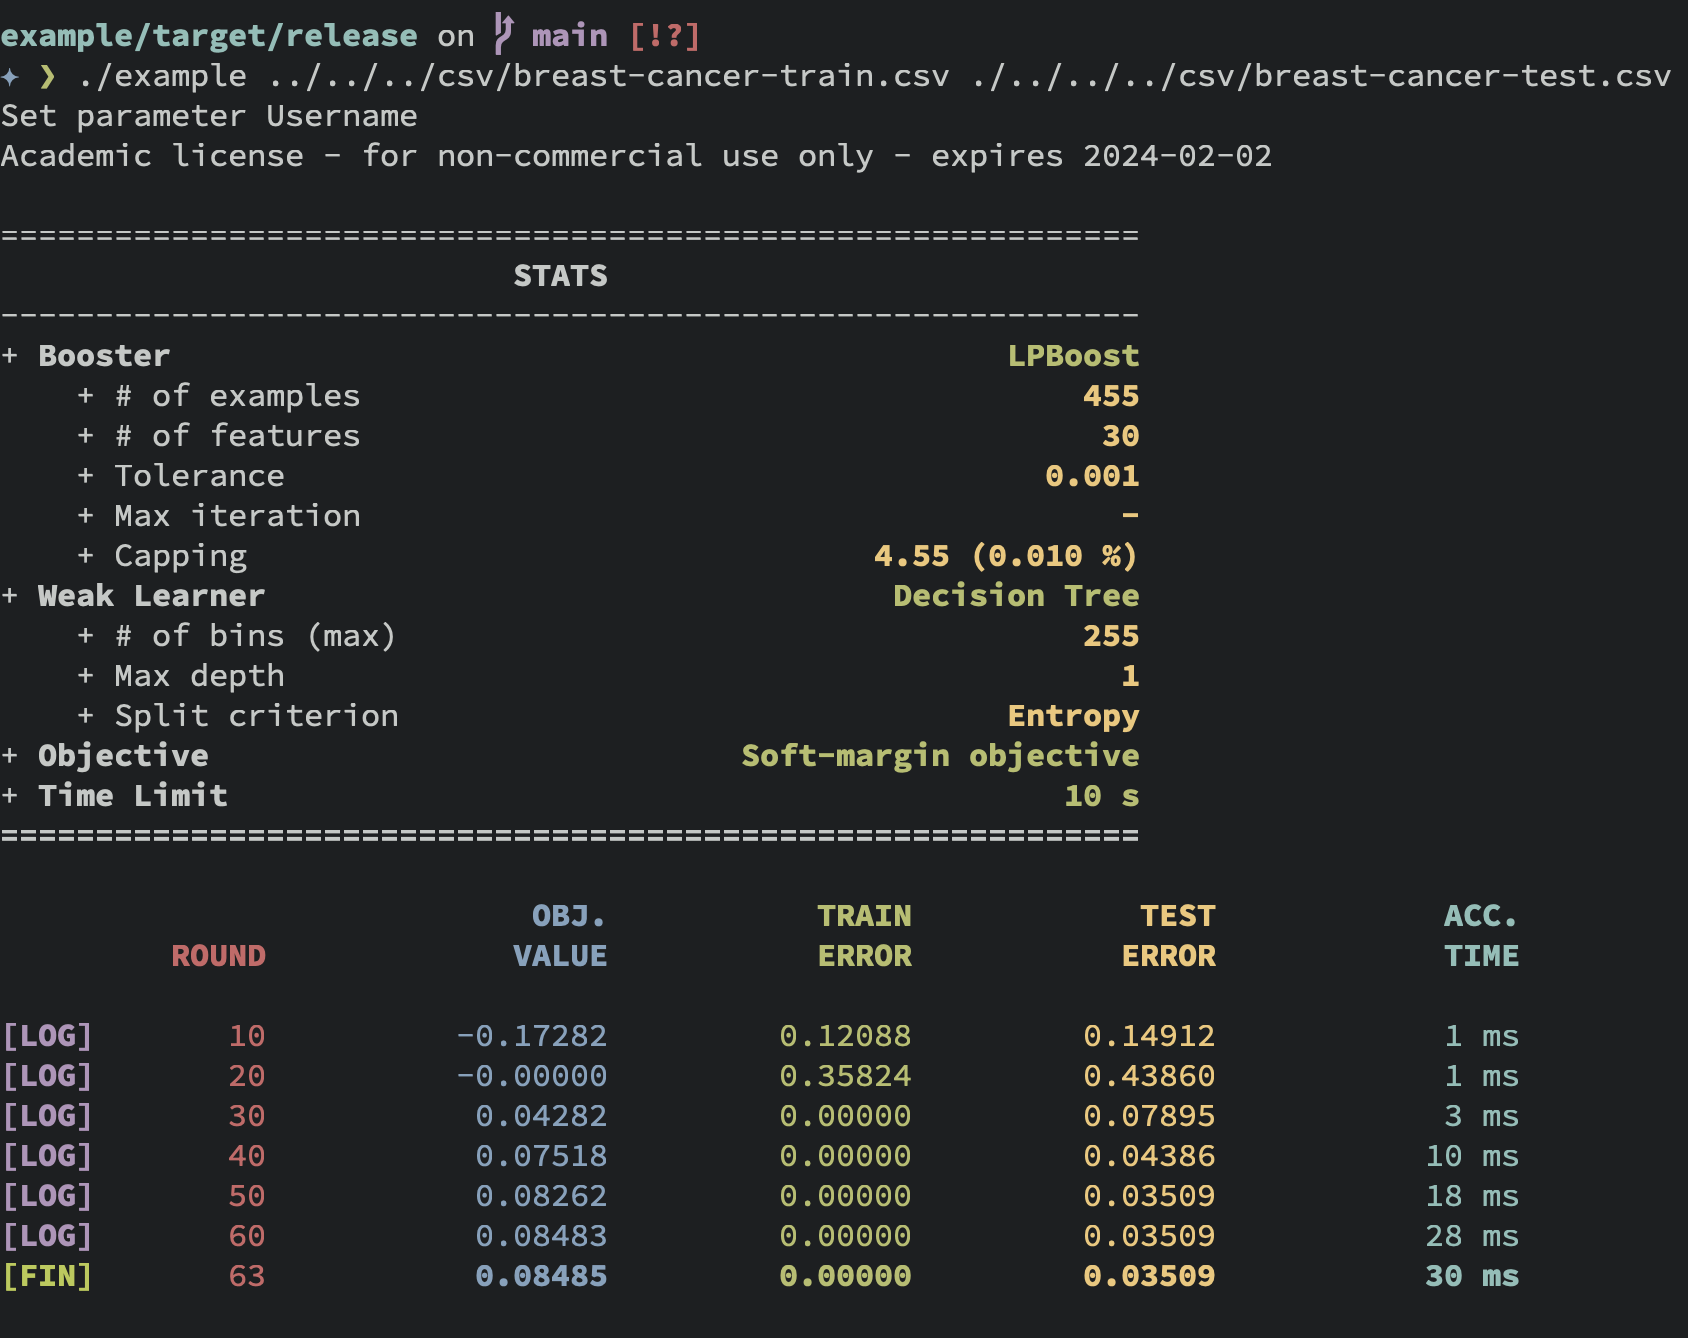
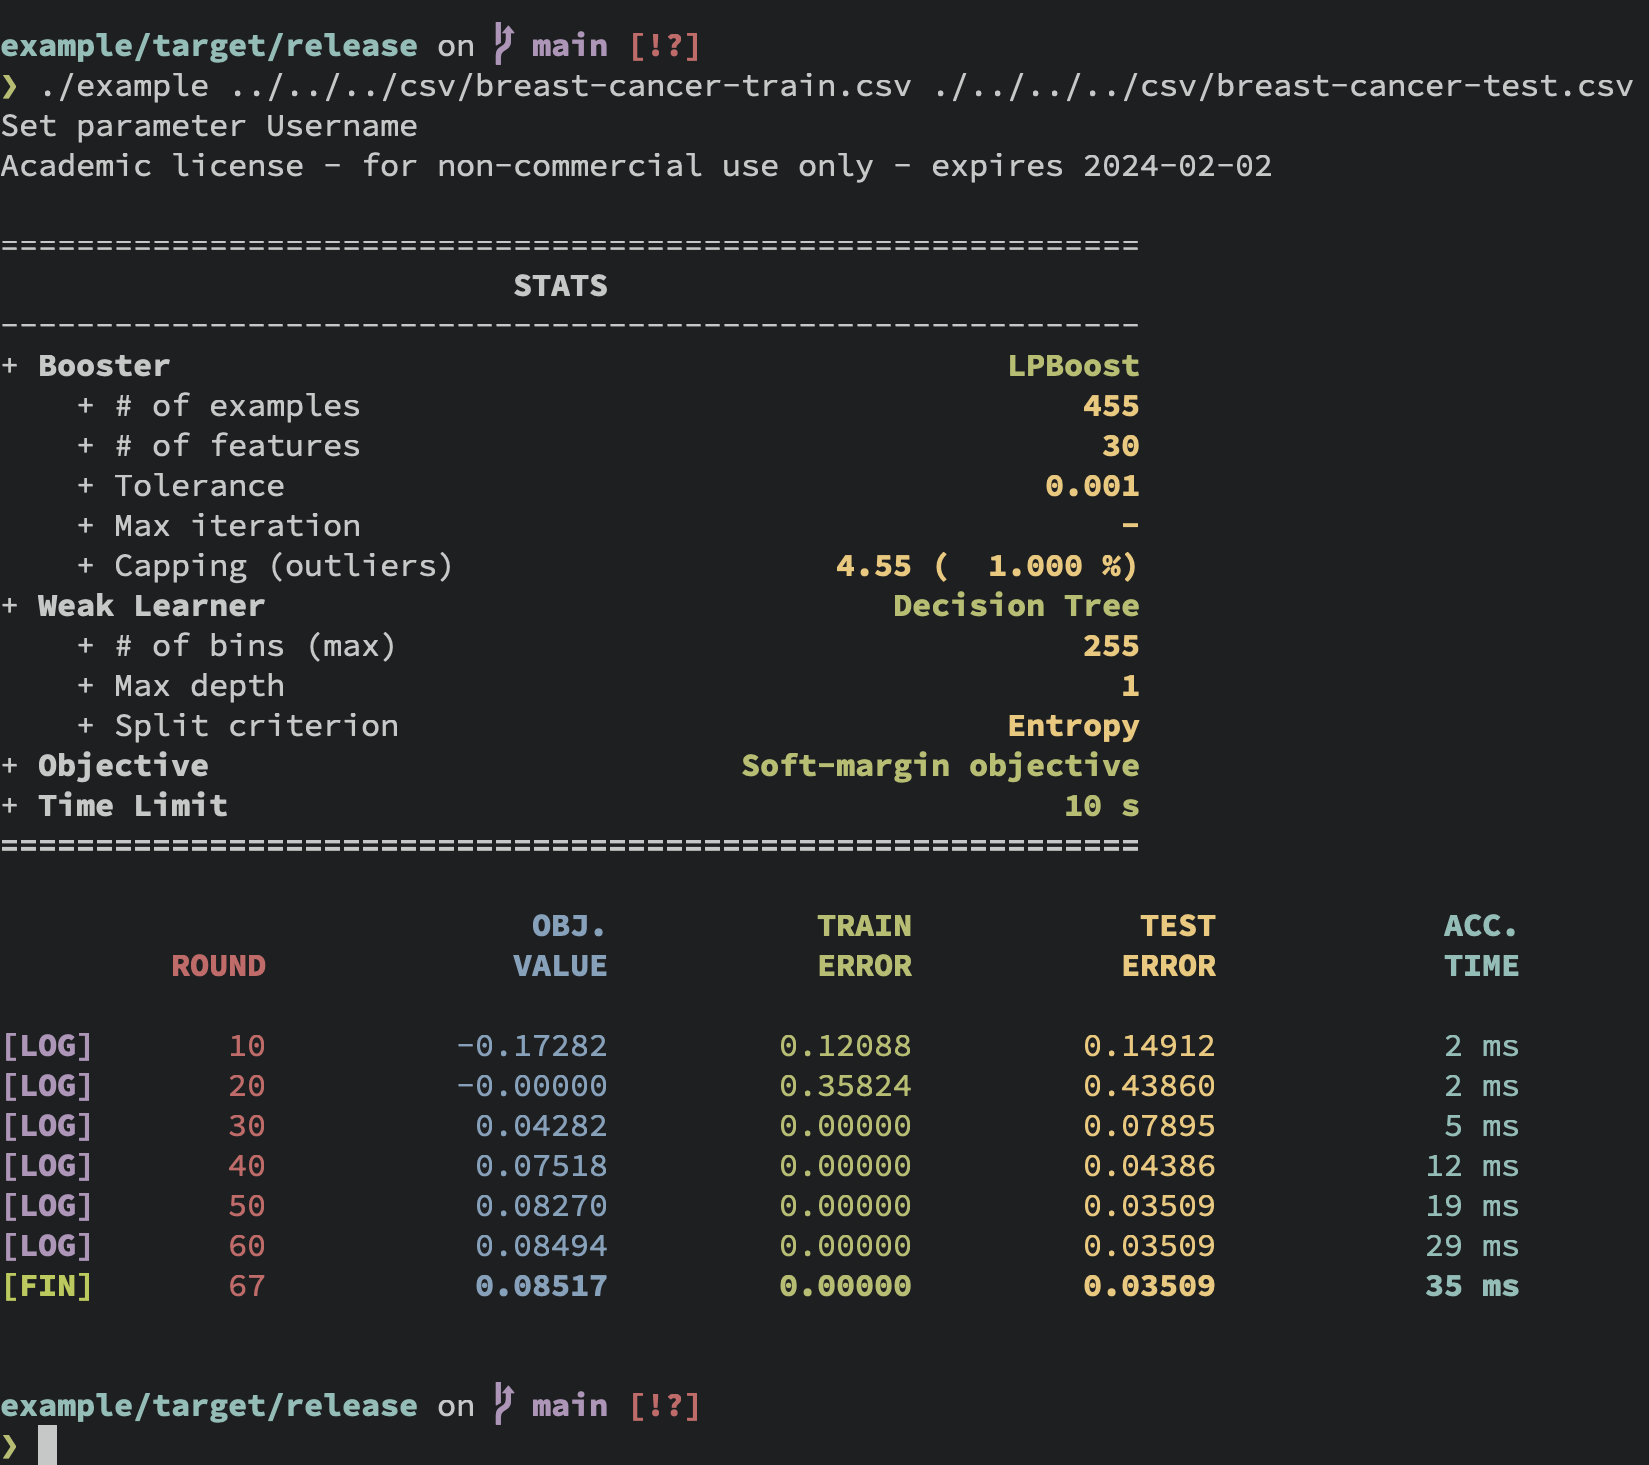
Minor fixes.
The capping parameter information was wrong.
This update fixed it.

Changed region(s): [[0.0, 0.1532, 0.7423, 1.0], [0.0, 0.0, 0.9897, 0.1226], [0.8351, 0.6129, 0.9278, 0.9806]]

diff --git a/src/booster/mlpboost/mlpboost_algorithm.rs b/src/booster/mlpboost/mlpboost_algorithm.rs
@@ -343,13 +343,14 @@ impl<F> Booster<F> for MLPBoost<'_, F>
 
     fn info(&self) -> Option<Vec<(&str, String)>> {
         let (n_sample, n_feature) = self.sample.shape();
-        let ratio = self.nu / n_sample as f64;
+        let ratio = self.nu * 100f64 / n_sample as f64;
+        let nu = self.nu;
         let info = Vec::from([
             ("# of examples", format!("{n_sample}")),
             ("# of features", format!("{n_feature}")),
             ("Tolerance", format!("{}", 2f64 * self.half_tolerance)),
             ("Max iteration", format!("{}", self.max_iter)),
-            ("Capping", format!("{nu} ({ratio:.3} %)", nu = self.nu)),
+            ("Capping (outliers)", format!("{nu} ({ratio: >7.3} %)")),
             ("Primary", format!("{}", self.primary.current_type())),
             ("Secondary", format!("LPBoost"))
         ]);

diff --git a/src/booster/softboost/softboost_algorithm.rs b/src/booster/softboost/softboost_algorithm.rs
@@ -433,14 +433,15 @@ impl<F> Booster<F> for SoftBoost<'_, F>
 
     fn info(&self) -> Option<Vec<(&str, String)>> {
         let (n_sample, n_feature) = self.sample.shape();
-        let ratio = self.nu / n_sample as f64;
+        let ratio = self.nu * 100f64 / n_sample as f64;
+        let nu = self.nu;
         let info = Vec::from([
             ("# of examples", format!("{n_sample}")),
             ("# of features", format!("{n_feature}")),
             ("Tolerance", format!("{}", self.tolerance)),
             ("Tolerance (sub-problem)", format!("{}", self.sub_tolerance)),
             ("Max iteration", format!("{}", self.max_iter)),
-            ("Capping", format!("{nu} ({ratio:.3} %)", nu = self.nu)),
+            ("Capping (outliers)", format!("{nu} ({ratio: >7.3} %)"))
         ]);
         Some(info)
     }

diff --git a/src/booster/erlpboost/erlpboost_algorithm.rs b/src/booster/erlpboost/erlpboost_algorithm.rs
@@ -332,13 +332,14 @@ impl<F> Booster<F> for ERLPBoost<'_, F>
 
     fn info(&self) -> Option<Vec<(&str, String)>> {
         let (n_sample, n_feature) = self.sample.shape();
-        let ratio = self.nu / n_sample as f64;
+        let ratio = self.nu * 100f64 / n_sample as f64;
+        let nu = self.nu;
         let info = Vec::from([
             ("# of examples", format!("{n_sample}")),
             ("# of features", format!("{n_feature}")),
             ("Tolerance", format!("{}", 2f64 * self.half_tolerance)),
             ("Max iteration", format!("{}", self.max_iter)),
-            ("Capping", format!("{nu} ({ratio:.3} %)", nu = self.nu))
+            ("Capping (outliers)", format!("{nu} ({ratio: >7.3} %)"))
         ]);
         Some(info)
     }

diff --git a/src/booster/lpboost/lpboost_algorithm.rs b/src/booster/lpboost/lpboost_algorithm.rs
@@ -239,13 +239,14 @@ impl<F> Booster<F> for LPBoost<'_, F>
 
     fn info(&self) -> Option<Vec<(&str, String)>> {
         let (n_sample, n_feature) = self.sample.shape();
-        let ratio = self.nu / n_sample as f64;
+        let ratio = self.nu * 100f64 / n_sample as f64;
+        let nu = self.nu;
         let info = Vec::from([
             ("# of examples", format!("{n_sample}")),
             ("# of features", format!("{n_feature}")),
             ("Tolerance", format!("{}", self.tolerance)),
             ("Max iteration", format!("-")),
-            ("Capping", format!("{nu} ({ratio:.3} %)", nu = self.nu))
+            ("Capping (outliers)", format!("{nu} ({ratio: >7.3} %)"))
         ]);
         Some(info)
     }

diff --git a/src/booster/cerlpboost/cerlpboost_algorithm.rs b/src/booster/cerlpboost/cerlpboost_algorithm.rs
@@ -244,12 +244,13 @@ impl<F> Booster<F> for CERLPBoost<'_, F>
     fn info(&self) -> Option<Vec<(&str, String)>> {
         let (n_sample, n_feature) = self.sample.shape();
         let ratio = self.nu / n_sample as f64;
+        let nu = self.nu;
         let info = Vec::from([
             ("# of examples", format!("{n_sample}")),
             ("# of features", format!("{n_feature}")),
             ("Tolerance", format!("{}", 2f64 * self.half_tolerance)),
             ("Max iteration", format!("{}", self.max_iter)),
-            ("Capping", format!("{nu} ({ratio:.3} %)", nu = self.nu))
+            ("Capping (outliers)", format!("{nu} ({ratio: >7.3} %)"))
         ]);
         Some(info)
     }
